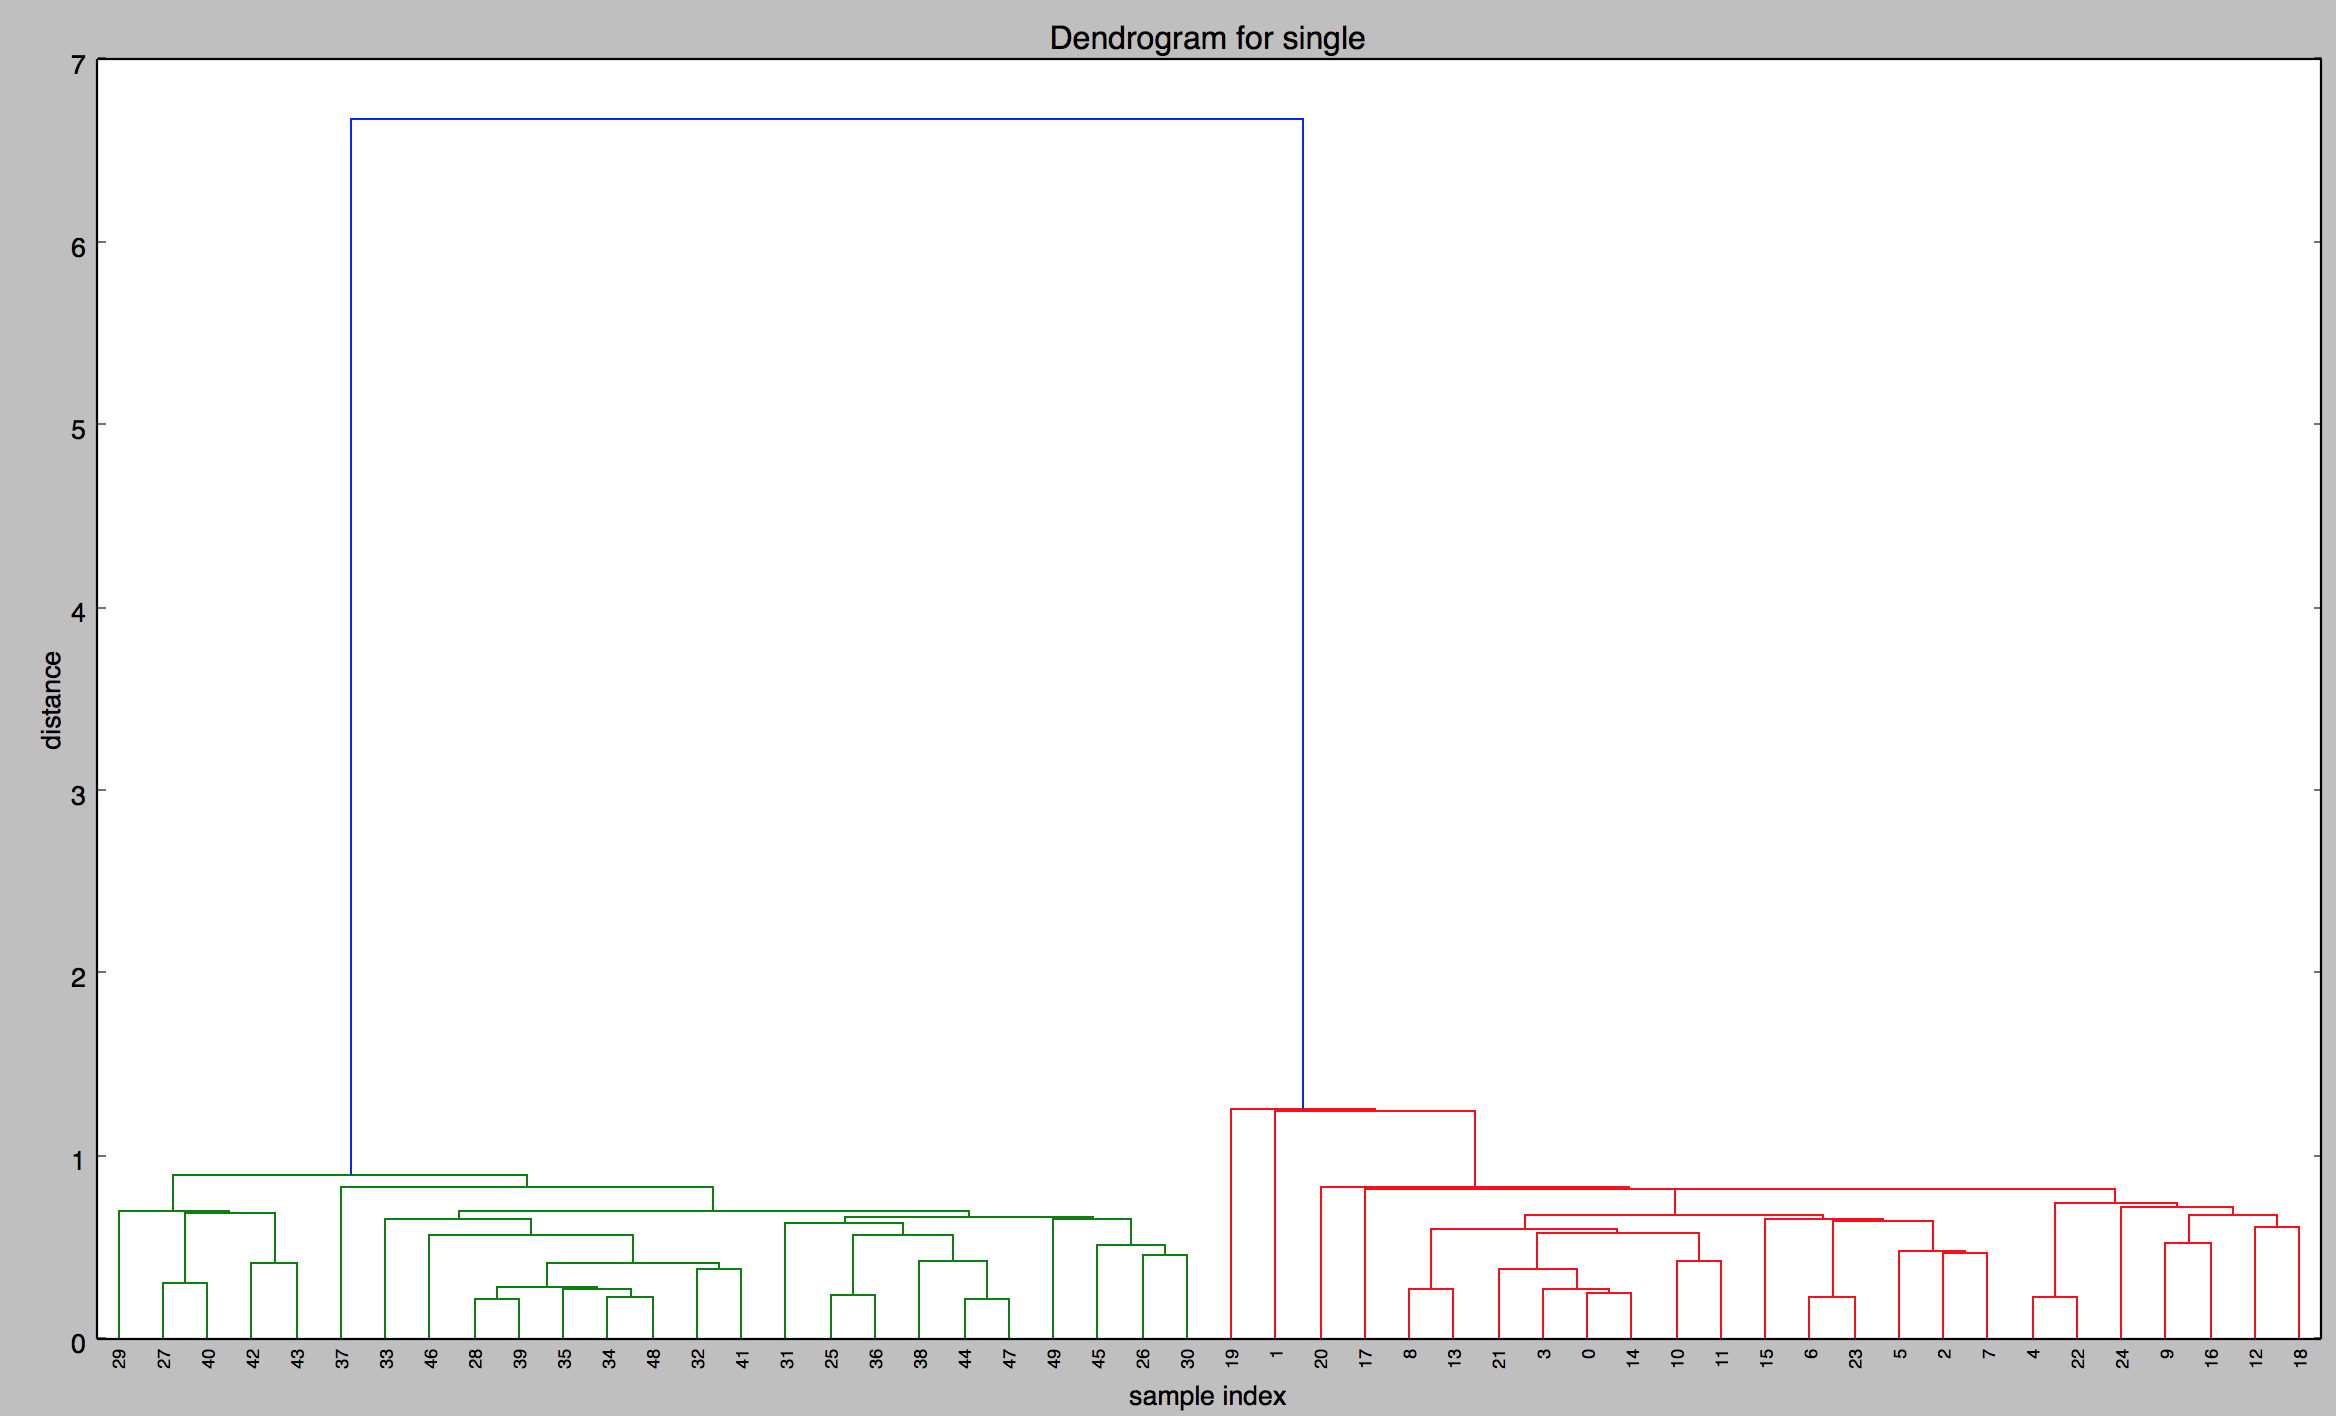
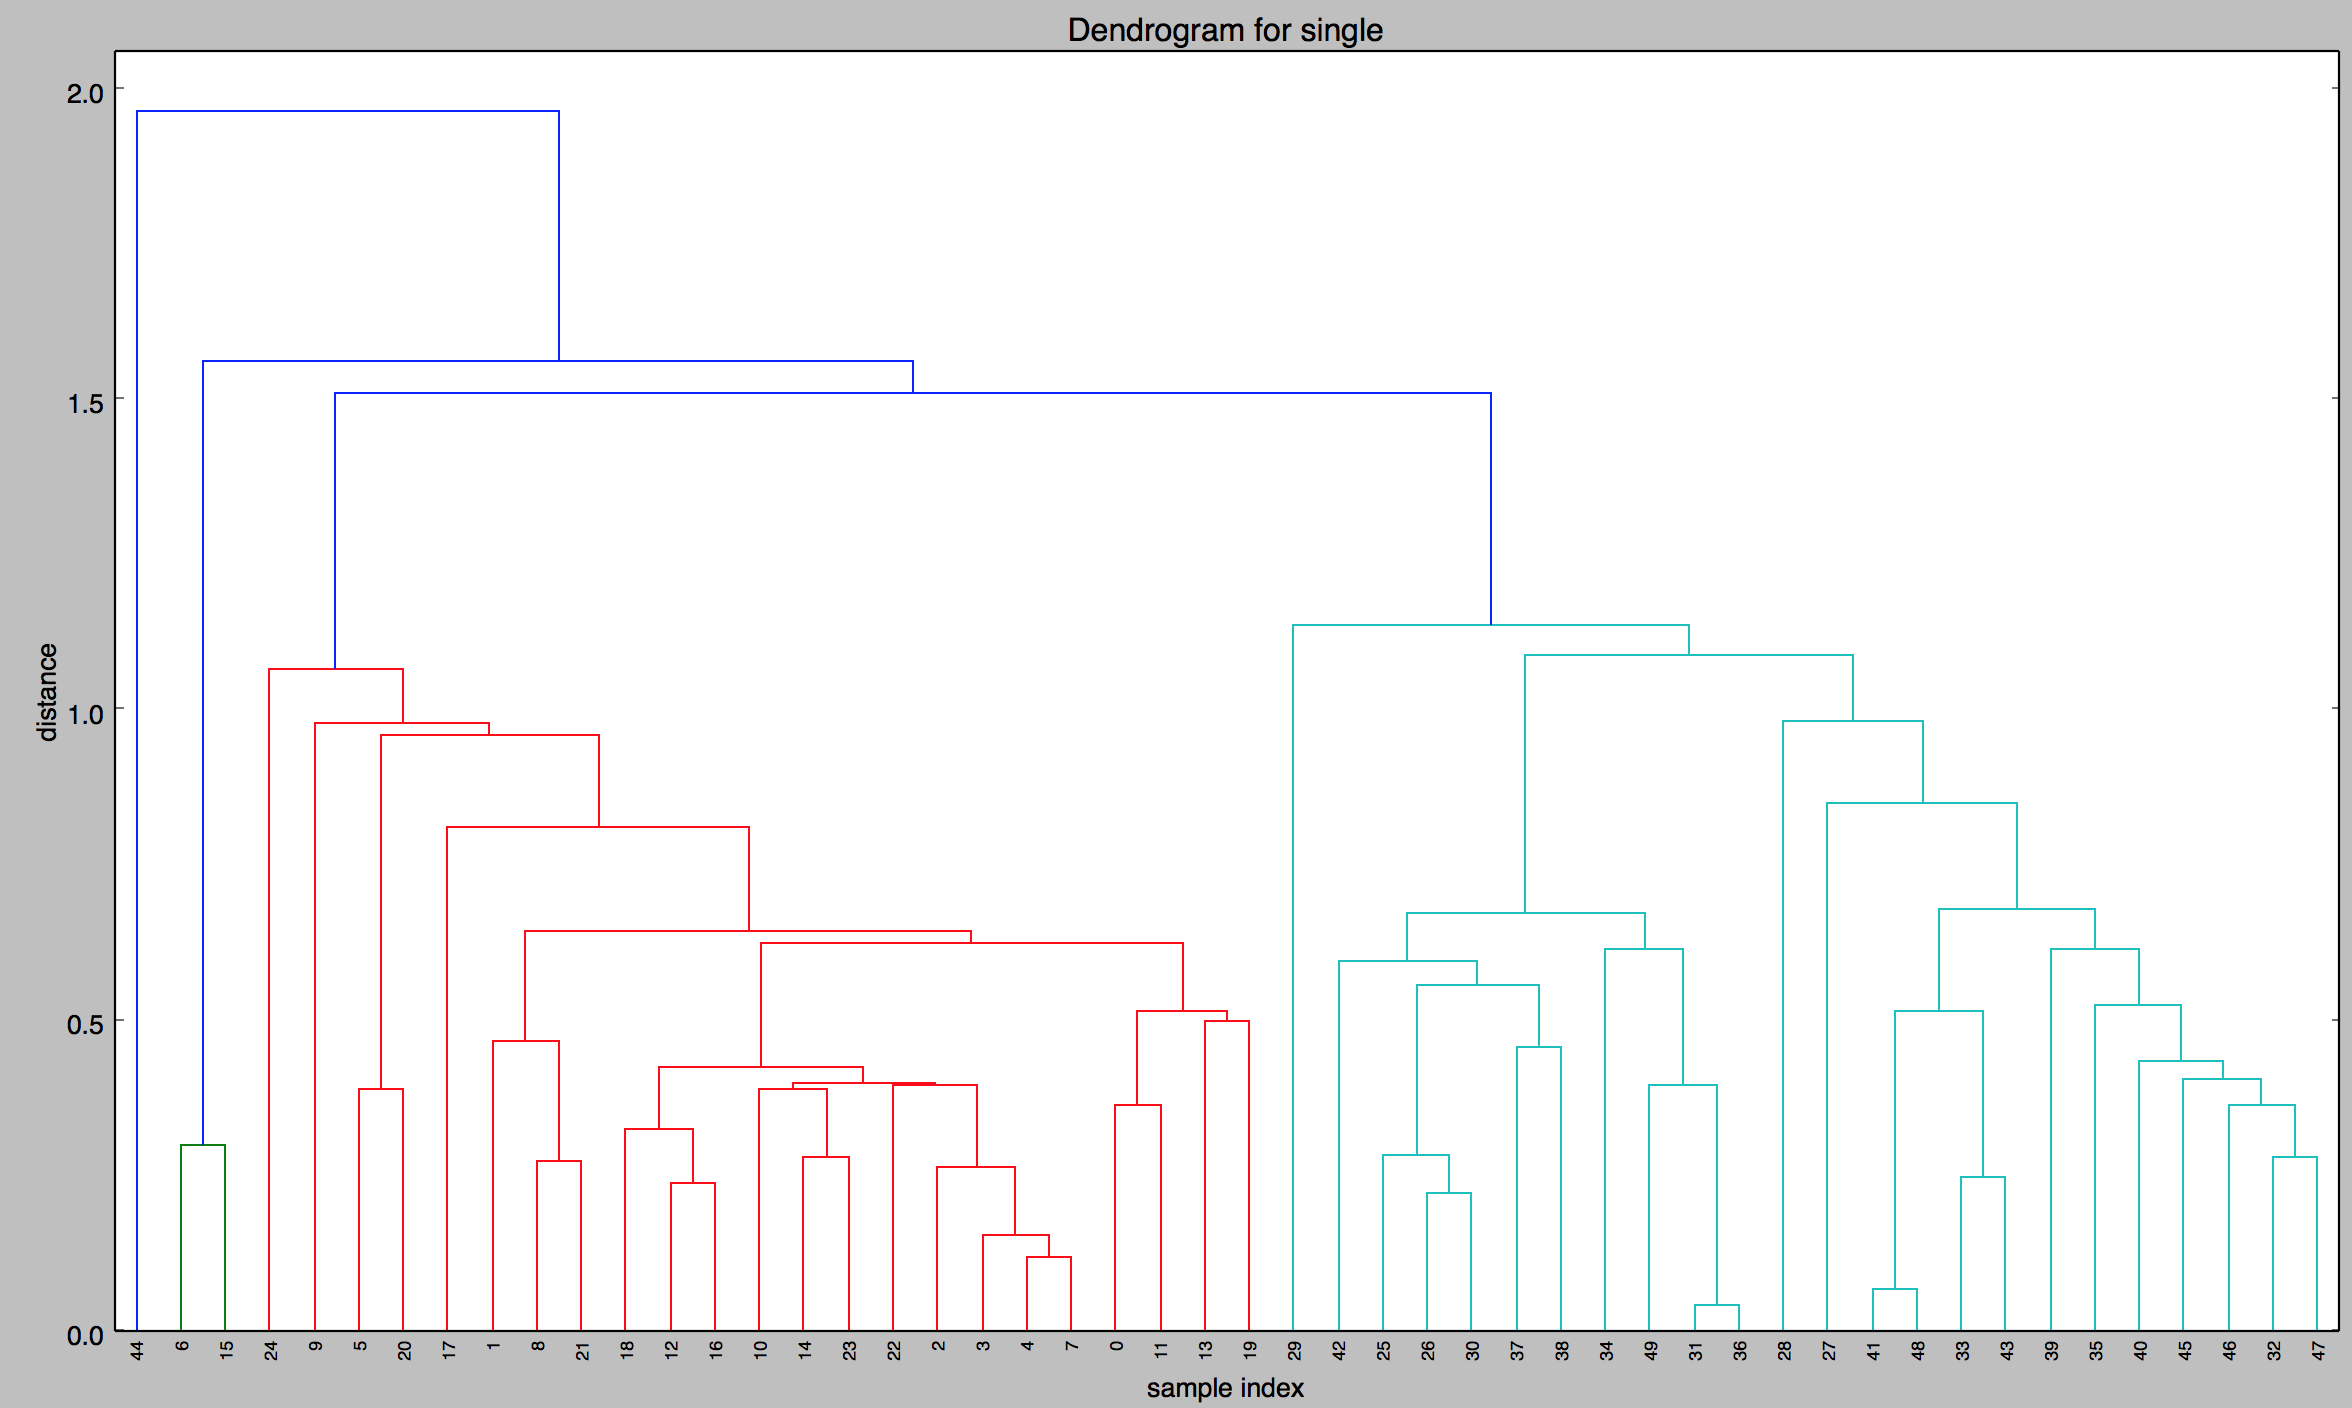
Fixed new figures and corrected the text describing the figures.

diff --git a/Report/chapter/unsupervised_learning.tex b/Report/chapter/unsupervised_learning.tex
@@ -156,40 +156,18 @@ average = linkage(zip(X,Y), method='average', metric='euclidean')
 
 As it can been seen, the linkage functions look a lot like each other. The only difference is the method. The two other parameters are the data set and specifies that the linkage should use Euclidean distance. 
 Now it is time for creating the dendrograms. To create them the function \emph{dendrogram} from the scipy library is used. The only parameter that is needed to build them is the three linkage objects that was made in listing \ref{lst:Linkage}
-The code that plots the three dendrograms are listed in listing \ref{lst:plottingDendrogram}
 
-\begin{lstlisting}[language=Python, label=lst:plottingDendrogram, caption=The python code that plots the dendrograms for the three different linakge]
-plt.figure(figsize=(25, 10))
-plt.title('Dendrogram for Compplete')
-plt.xlabel('sample index')
-plt.ylabel('distance')
-dendrogram(complete)
-
-plt.figure(figsize=(25, 10))
-plt.title('Dendrogram for single')
-plt.xlabel('sample index')
-plt.ylabel('distance')
-dendrogram(single)
-
-plt.figure(figsize=(25, 10))
-plt.title('Dendrogram for average')
-plt.xlabel('sample index')
-plt.ylabel('distance')
-dendrogram(average)
-\end{lstlisting}
-
-The construction of the diagram is the same for the three different linkage. First the figure size is set, then the title of the dendrogram and in line 3 and 4 the labels for the X-axis and the Y-axis is set. 
-The only thing that differ these diagrams is which linkage object that are send as a parameter to the dendrogram function.
-The result of each of the three different dendrogram can be seen in figure- \ref{fig:dendrogramcomplete}, \ref{fig:dendrogramsingle} and \ref{fig:dendrogramaverage}
+When plotting the dendrograms The only thing that differ is which linkage object that are send as a parameter to the dendrogram function.
+The result of each of the three different dendrogram can be seen in figures \ref{fig:dendrogramsCompAvg} and \ref{fig:dendrogramsingle}
 
 
-\mySubFigure{DendrogramComplete.PNG}{DendrogramAverage.PNG}{caption}{subcaption1}{subcaption2}{label}{sublabel1}{sublabel2}
+\mySubFigure{DendrogramComplete.PNG}{DendrogramAverage.PNG}{Dendrograms for linkage methods complete and Average}{Complete}{Average}{fig:dendrogramsCompAvg}{fig:denComplete}{fig:denAverage}
 
 %\myFigure{DendrogramComplete.PNG}{The dendrogram for the linkage method complete}{fig:dendrogramcomplete}{0.5}
 
-\myFigure{DendrogramSingle.PNG}{The dendrogram for the linkage method single}{fig:dendrogramsingle}{0.5}
+\myFigure{DendrogramSingle.PNG}{Dendrogram for the linkage method single}{fig:dendrogramsingle}{0.5}
 
 %\myFigure{DendrogramAverage.PNG}{The dendrogram for the linkage method average}{fig:dendrogramaverage}{0.5}
 
-As expected the dendrograms are different from each other due to the different linkage methods that are used to generate them. 
-But Average and Complete looks more correct compared to single, where two observation belongs to its own clusters. This can mean that maybe two clusters are not the best solution, and the data set should maybe be divided into more clusters. In this case four cluster would be better.
+As expected the dendrograms are different from each other.
+But looking at figures \ref{fig:denComplete} and \ref{fig:denAverage} Average and Complete looks more identical and correct compared to singles figure in figure \ref{fig:dendrogramsingle}. In the dendrogram for single it can be seen that one observation belongs to its own cluster. This can mean that maybe two clusters are not the best solution, and the data set should maybe be divided into more clusters. In this case four cluster would be better.
